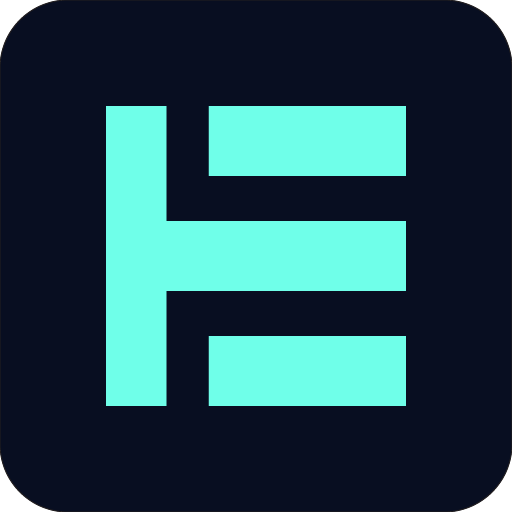
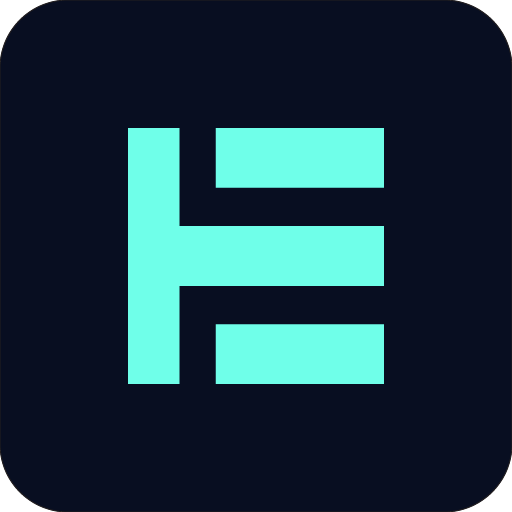
fix: service worker registration
Include logo resizing.

Changed region(s): [[0.1875, 0.1875, 0.8125, 0.8125], [0.4062, 0.625, 0.8125, 0.8125], [0.4062, 0.1875, 0.8125, 0.375]]

diff --git a/js/main.js b/js/main.js
@@ -1,7 +1,7 @@
 if ("serviceWorker" in navigator) {
   window.addEventListener("load", function() {
     navigator.serviceWorker
-      .register("js/service-worker.js")
+      .register("/service-worker.js")
       .then(res => console.log("service worker registered"))
       .catch(err => console.log("service worker not registered", err))
   })
